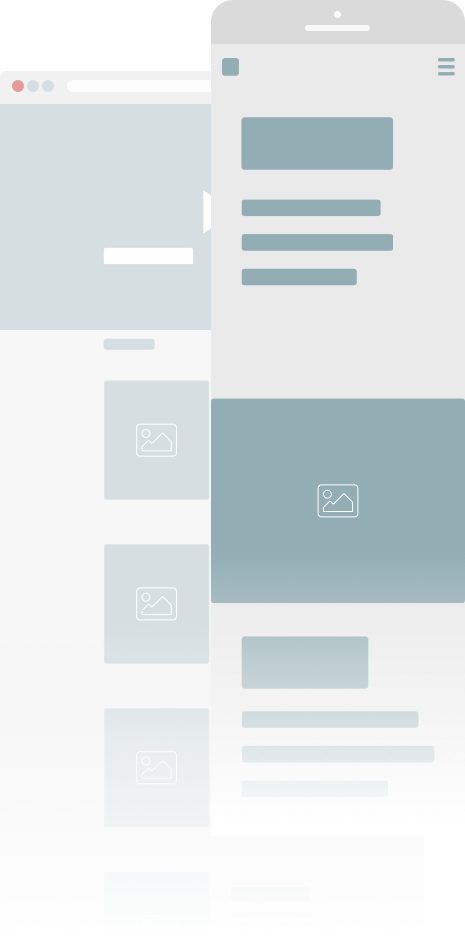
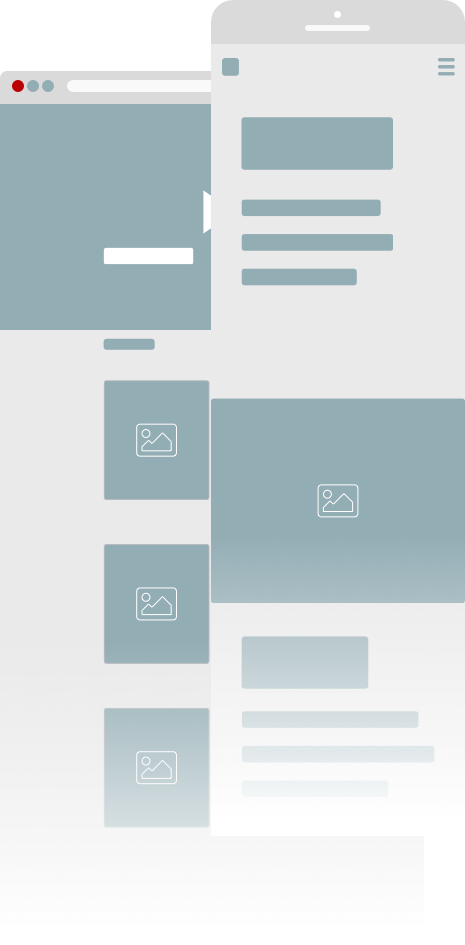
chang index type

Changed region(s): [[0.0, 0.0614, 0.4516, 0.3683], [0.2108, 0.3989, 0.4516, 0.7058], [0.2108, 0.7365, 0.4516, 0.8899]]

diff --git a/pages/intro.html b/pages/intro.html
@@ -1802,11 +1802,11 @@
                                     <circle id="Oval-2-Copy-12" class="processCir" stroke-opacity="0.5" stroke="#000000" stroke-width="8" cx="270" cy="28" r="20"></circle>
                                     <circle id="Oval-2-Copy-13" class="processCir" stroke-opacity="0.5" stroke="#000000" stroke-width="8" cx="391" cy="28" r="20"></circle>
                                     <circle id="Oval-2-Copy-6" class="processCir" stroke-opacity="0.5" stroke="#000000" stroke-width="8" cx="28" cy="28" r="20"></circle>
+                                    <circle class="processCirFront" id="Oval-2-Copy-5" stroke="#111925" stroke-width="8" cx="24" cy="24" r="20"></circle>
                                     <circle class="processCirFront" id="Oval-2-Copy-8" stroke="#111925" stroke-width="8" cx="145" cy="24" r="20"></circle>
                                     <circle class="processCirFront" id="Oval-2-Copy-9" stroke="#111925" stroke-width="8" cx="266" cy="24" r="20"></circle>
                                     <circle class="processCirFront" id="Oval-2-Copy-10" stroke="#111925" stroke-width="8" cx="387" cy="24" r="20"></circle>
                                     <path d="M470.526768,21 C468.567473,19.5836574 468.072709,16.857326 469.434591,14.8382533 C470.824343,12.7778617 473.621237,12.2342006 475.681628,13.6239523 L487.430887,21.5489274 C488.749298,22.4382072 489.446682,23.9036433 489.413867,25.3835981 C489.749276,27.1037173 489.057049,28.9360052 487.512664,29.9777062 L475.763405,37.9026813 C473.703014,39.292433 470.90612,38.7487719 469.516368,36.6883803 C468.126616,34.6279886 468.670277,31.8310948 470.730669,30.4413431 L471.384987,30 L452.5,30 C450.014719,30 448,27.9852814 448,25.5 C448,23.0147186 450.014719,21 452.5,21 L470.526768,21 Z" id="Combined-Shape" fill="#BB0000"></path>
-                                    <circle class="processCirFront" id="Oval-2-Copy-5" stroke="#111925" stroke-width="8" cx="24" cy="24" r="20"></circle>
                                 </g>
                                 <path d="M66,224.5 C66,222.014719 68.0147186,220 70.5,220 L109.5,220 C111.985281,220 114,222.014719 114,224.5 C114,226.985281 111.985281,229 109.5,229 L70.5,229 C68.0147186,229 66,226.985281 66,224.5 Z" id="Rectangle-2-Copy-2" fill="#93ADB5"></path>
                                 <path d="M187,224.5 C187,222.014719 189.014719,220 191.5,220 L230.5,220 C232.985281,220 235,222.014719 235,224.5 C235,226.985281 232.985281,229 230.5,229 L191.5,229 C189.014719,229 187,226.985281 187,224.5 Z" id="Rectangle-2-Copy-7" fill="#93ADB5"></path>
@@ -1822,8 +1822,9 @@
         <div class="row critique">
             <div class="col-4"></div>
             <div class="col-4 center">
-                <img src="../asset/intro/Phone.png">
-                <img src="../asset/intro/webframe_browser.png">
+                <!-- <img src="../asset/intro/Phone.png"> -->
+                <!-- <img src="../asset/intro/webframe_browser.png"> -->
+                <img src="../asset/intro/wireframeAnimation.png">
             </div>
             <div class="col-4"></div>
         </div>

diff --git a/style/main.css b/style/main.css
@@ -1,8 +1,9 @@
 html {
-    font-family: base-900-sans, sans-serif;
+    font-family: basic-sans, sans-serif;
     font-style: normal;
     font-weight: 400;
 }
+
 
 body {
     width: 100%;
@@ -12,6 +13,7 @@ body {
     /* overflow: hidden; */
     overflow-x: hidden;
 }
+
 
 
 a::-moz-selection {
@@ -71,6 +73,7 @@ p::-moz-selection {
 
 
 
+
 /* sider title */
 
 .sideText {
@@ -91,6 +94,7 @@ p::-moz-selection {
     line-height: 181px;
     width: 920px;
 }
+
 
 
 
@@ -162,6 +166,7 @@ p::-moz-selection {
 .headIntro>p:nth-child(1) {
     font-size: 60px;
     line-height: 98px;
+    font-weight: 600;
 }
 
 .projects {
@@ -174,6 +179,7 @@ p::-moz-selection {
     padding-bottom: 118px;
     height: 100vh;
 }
+
 
 
 
@@ -237,6 +243,7 @@ p::-moz-selection {
     margin-top: 511px;
     z-index: 0;
 }
+
 
 
 
@@ -417,12 +424,14 @@ p::-moz-selection {
 
 
 
+
 /* firstBlock end */
 
 .block>div {
     margin-top: 10em;
     margin-bottom: 10em;
 }
+
 
 
 
@@ -489,6 +498,7 @@ p::-moz-selection {
 
 
 
+
 /* add iframe */
 
 .iframe,
@@ -501,6 +511,7 @@ p::-moz-selection {
     /* opacity: .3; */
     overflow: hidden;
 }
+
 
 
 

diff --git a/js/intro.js b/js/intro.js
@@ -167,22 +167,24 @@ jQuery(document).ready(function($) {
         direction: 'normal'
     });
 
-// Process
-var Process = anime({
+    // Process
+    var Process = anime({
         targets: '#Process .processCirFront',
         // easing: 'easeInOutQuart',
         duration: 1000,
-        delay:1000,
+        // delay: 1000,
         loop: true,
         cx: '+=4',
         cy: '+=4',
+        delay: function(target, index) {
+            return 100+(400 * index);
+        },
         // opacity: {
         //     value: 0.4,
         //     duration: 5000,
         //     delay:5000,
         //     direction: 'alternate'
         // },
-        elasticity: 300,
         direction: 'alternate'
     });
 

diff --git a/index.html b/index.html
@@ -67,7 +67,7 @@
                     <!-- <p>Hi, I am <a href="pages/ClementLiu_Resume.pdf" target="_blank">Clement(Ziwei</a>) Liu.</p> -->
                     <!-- <p>I am a designer at Bay Area.&nbsp; I design and craft digital products.&nbsp; Ckeck some of my works below. Or contact me, for more info.</p> -->
                     <!-- <p>Welcome to my humble website.⛺</p> -->
-                    <p>The following projects reveal my hourney toward this guilding principle.</p>
+                    <p>The following projects reveal my journey toward this guilding principle.</p>
                     <p>I hope you like it:)</p>
                     <!-- <p>Bon appétit!</p> -->
                 </div>

diff --git a/style/intro.css b/style/intro.css
@@ -779,3 +779,9 @@ h2 > span {
 
 .row.projectsCollection .col-5.vertical-align {
   padding-top: 7%; }
+
+.row.critique .col-4.center {
+  position: relative;
+  height: auto; }
+  .row.critique .col-4.center img {
+    position: relative; }

diff --git a/sass/intro.scss b/sass/intro.scss
@@ -139,8 +139,11 @@ h2>span {
 
     .col-4 {}
     .col-4.center {
-
-        img {}
+position: relative;
+height: auto;
+        img {
+            position: relative;
+        }
     }
     .col-4 {}
 }
